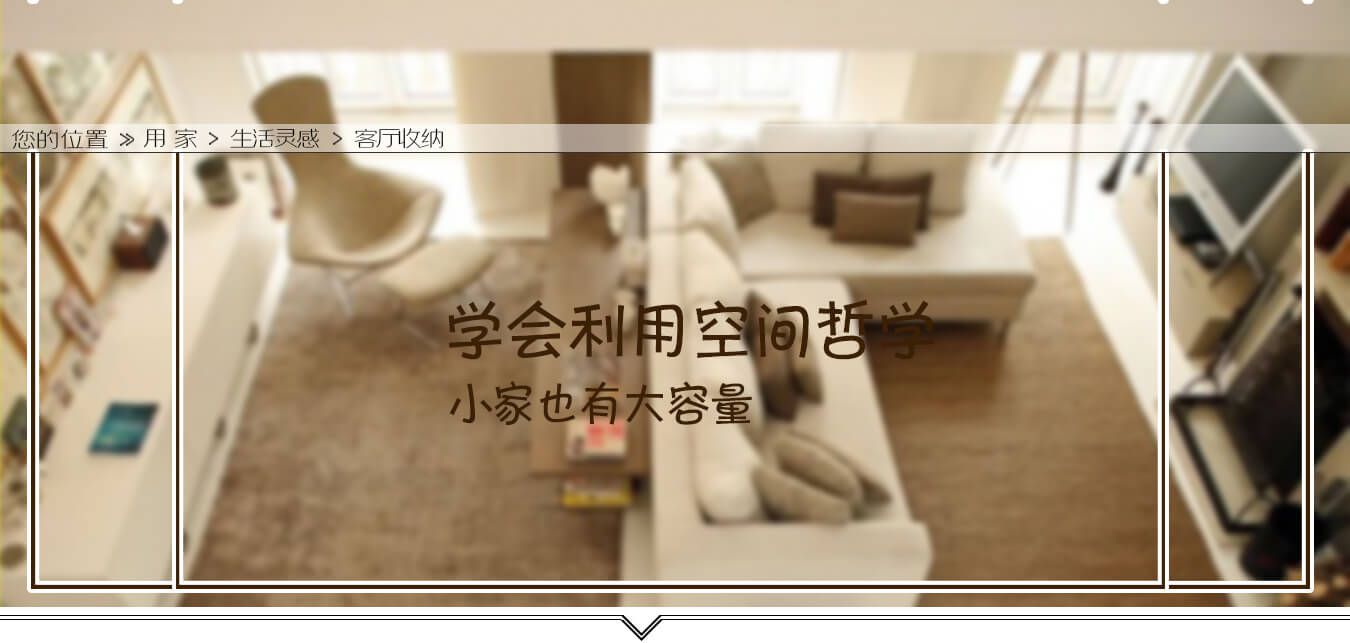
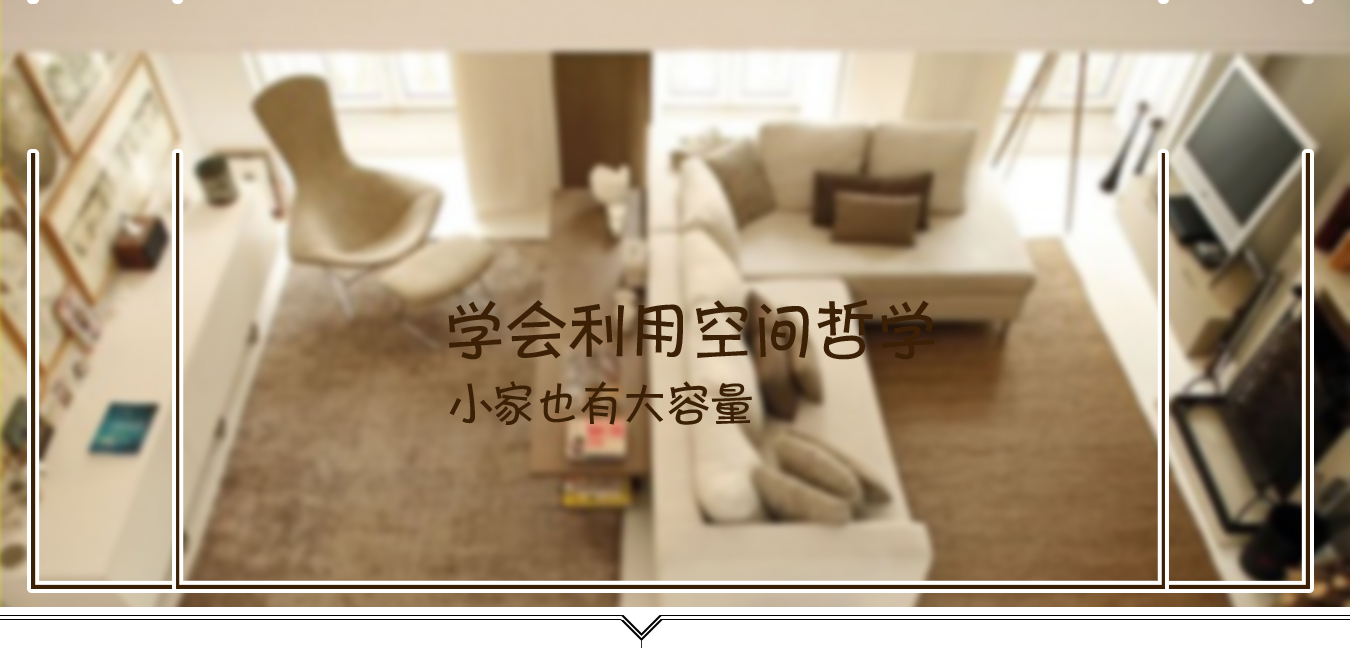
change slide img

diff --git a/ThreeLevelHtml/bedroom-receive.html b/ThreeLevelHtml/bedroom-receive.html
@@ -9,7 +9,7 @@
     <style type="text/css">
         #wrapper {
             min-width: 1350px;
-            height: 3200px;
+            height: 3000px;
 
         }
         .header {
@@ -25,12 +25,9 @@
         .main{
             height: 83%;
         }
-        .main .title{
-            margin: 0 auto;
-        }
         .main .main-content a{
             display: block;
-            margin: 60px auto;
+            margin: 90px auto;
         }
 
     </style>
@@ -40,7 +37,7 @@
     <!-- 头部-->
     <div class="header">
         <div class="bg-img">
-            <img src="../img/LifeFeel/bg.jpg">
+            <img src="../img/LifeFeel/bg1.jpg">
         </div>
         <!-- 头部导航栏-->
         <div class="nav">
@@ -76,9 +73,6 @@
 
     <!-- 中间-->
     <div class="main">
-        <div class="title">
-            <img src="../img/LifeFeel/title3.jpg">
-        </div>
         <div class="main-content">
             <a href="../FourLevelHtml/bedroom-one.html"><img src="../img/LifeFeel/11.jpg"></a>
             <a href="../FourLevelHtml/bedroom-two.html"><img src="../img/LifeFeel/12.jpg"></a>

diff --git a/index.html b/index.html
@@ -37,9 +37,11 @@
                         <li><a href="html/country-first.html">异国风情</a></li>
                     </ul>
                 </div>
-                <!-- 搜索框等-->
+                <!-- 搜索输入框-->
                 <input type="text" class="search">
+                <!-- 搜索按钮-->
                 <a href="#" class="search-btn"><img src="img/HomePage/1.png"></a>
+                <!-- 用户logo-->
                 <a href="#" class="login"><img src="img/HomePage/2.png"></a>
             </div>
             <!-- 用户位置-->
